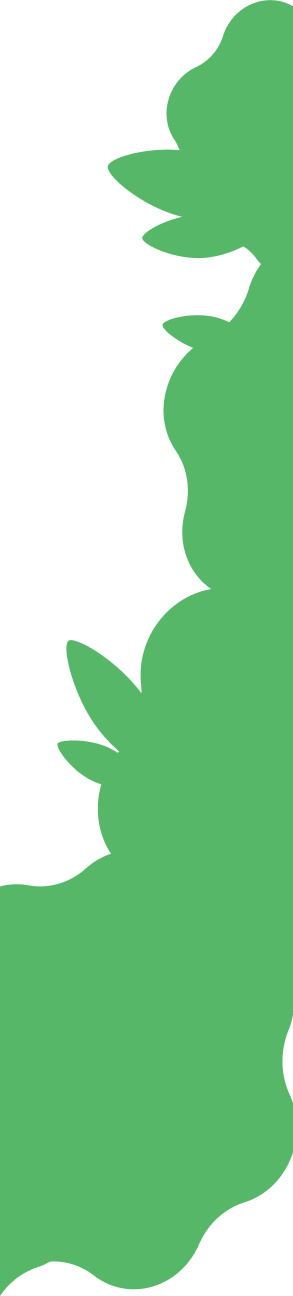
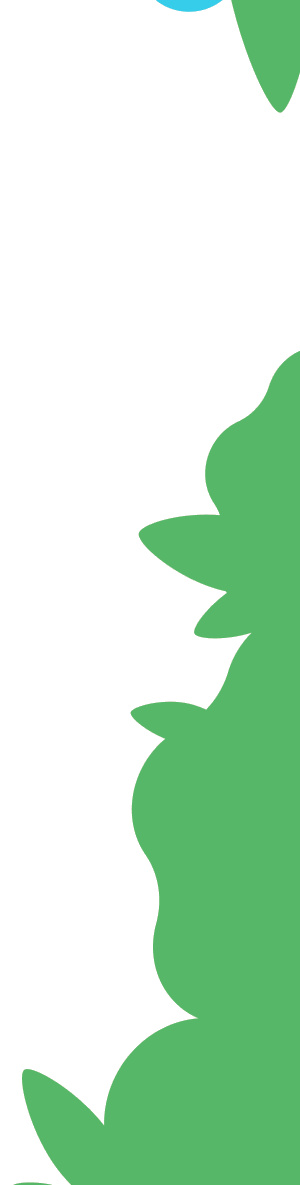
events.html: декор сторінки оновлено з нового фону Figma «знайти подію bg»
Користувач створила фрейм «знайти подію bg» (1410:10529, 1920x1907) —
цілісний фон сторінки: крем + квіти в кутах + зелені лози по боках + кущі
внизу.

Висота сторінки змінна (Карта 1967 / Календар 1805 / Список 3505px), тож
суцільну картинку як фон ставити не можна (розтяглася б / кущі зависли б).
Натомість нарізав фон на адаптивні шари й оновив наявні елементи:
- find-flowers-left/right — квіти-кути (тепер торкаються краю, прибрано зсув -64px)
- find-green-left/right — бічні лози (object-fit:cover на всю висоту)
- find-bush-bottom — нижні кущі (прив'язані до верху футера)
Усе вирізано color-key'ем (крем -> прозоро) із Figma-рендера фону.

QA @375/1440 × Карта/Календар/Список: h-overflow=0, console=0.

diff --git a/events.html b/events.html
@@ -11,7 +11,7 @@
 <link rel="manifest" href="assets/site.webmanifest">
 <link rel="preconnect" href="https://fonts.googleapis.com"><link rel="preconnect" href="https://fonts.gstatic.com" crossorigin>
 <link rel="stylesheet" href="https://fonts.googleapis.com/css2?family=Unbounded:wght@600;700;800&family=Inter:wght@400;500;600;700&display=swap">
-<link rel="stylesheet" href="css/site.css?v=20260527m">
+<link rel="stylesheet" href="css/site.css?v=20260527n">
 </head>
 <body>
 <a href="#main" class="skip-link">Перейти до основного вмісту</a>
@@ -37,15 +37,15 @@
 </div>
 
 <main id="main" class="page-find">
-  <img class="find-green find-green--left" src="assets/find-green-left.png?v=20260527L" alt="" aria-hidden="true">
-  <img class="find-green find-green--right" src="assets/find-green-right.png?v=20260527L" alt="" aria-hidden="true">
-  <img class="find-bush-bottom" src="assets/find-bush-bottom.png?v=20260527m" alt="" aria-hidden="true">
+  <img class="find-green find-green--left" src="assets/find-green-left.png?v=20260527n" alt="" aria-hidden="true">
+  <img class="find-green find-green--right" src="assets/find-green-right.png?v=20260527n" alt="" aria-hidden="true">
+  <img class="find-bush-bottom" src="assets/find-bush-bottom.png?v=20260527n" alt="" aria-hidden="true">
 
   <!-- HERO -->
   <section class="hero hero--find">
     <div class="hero__bg" aria-hidden="true"></div>
-    <img class="find-flowers find-flowers--left" src="assets/find-flowers-left.png?v=20260527j" alt="" aria-hidden="true">
-    <img class="find-flowers find-flowers--right" src="assets/find-flowers-right.png?v=20260527j" alt="" aria-hidden="true">
+    <img class="find-flowers find-flowers--left" src="assets/find-flowers-left.png?v=20260527n" alt="" aria-hidden="true">
+    <img class="find-flowers find-flowers--right" src="assets/find-flowers-right.png?v=20260527n" alt="" aria-hidden="true">
     <img class="find-ant" src="assets/ant-map.svg?v=20260527j" alt="" aria-hidden="true">
     <div class="container hero__inner">
       <span class="eyebrow">Львів · вихідні</span>

diff --git a/css/site.css b/css/site.css
@@ -566,8 +566,8 @@ a.card:hover, a.card-link:hover { color: inherit; }
 }
 .hero--find { padding-bottom: var(--space-16); }
 .hero--find .find-flowers { position: absolute; top: 0; z-index: 0; height: auto; pointer-events: none; }
-.hero--find .find-flowers--left { left: -64px; width: 230px; }
-.hero--find .find-flowers--right { right: -64px; width: 310px; }
+.hero--find .find-flowers--left { left: 0; width: 200px; }
+.hero--find .find-flowers--right { right: 0; width: 240px; }
 .hero--find .find-ant { position: absolute; right: 20%; bottom: 4%; width: 160px; height: auto; z-index: 0; pointer-events: none; }
 @media (max-width: 1240px) {
   .page-find .find-green { display: none; }
@@ -577,8 +577,8 @@ a.card:hover, a.card-link:hover { color: inherit; }
 }
 @media (max-width: 760px) {
   .hero--find .find-ant { display: none; }
-  .hero--find .find-flowers--left { left: -54px; width: 140px; }
-  .hero--find .find-flowers--right { right: -54px; width: 170px; }
+  .hero--find .find-flowers--left { left: 0; width: 120px; }
+  .hero--find .find-flowers--right { right: 0; width: 140px; }
 }
 .hero h1 { max-width: 18ch; margin-bottom: var(--space-5); }
 .hero__sub { font-size: var(--fs-body-lg); color: var(--color-text-muted); max-width: 52ch; margin-bottom: var(--space-8); line-height: var(--lh-tight); }
